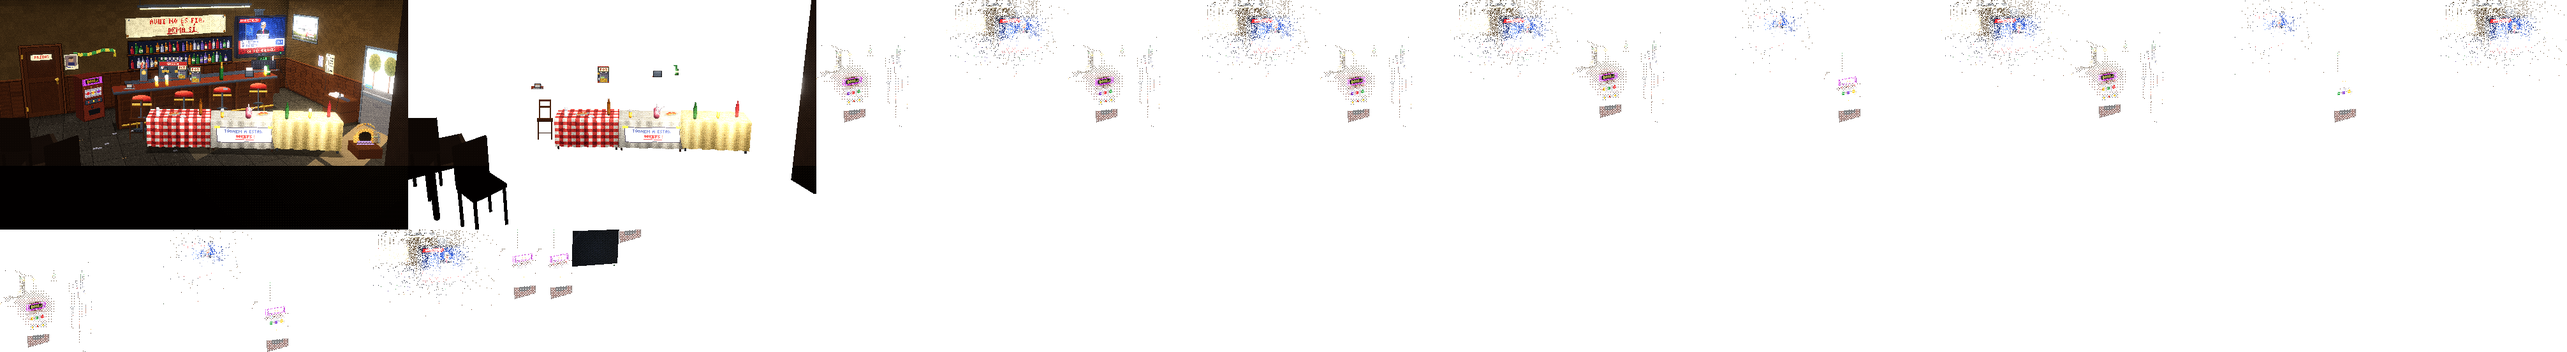
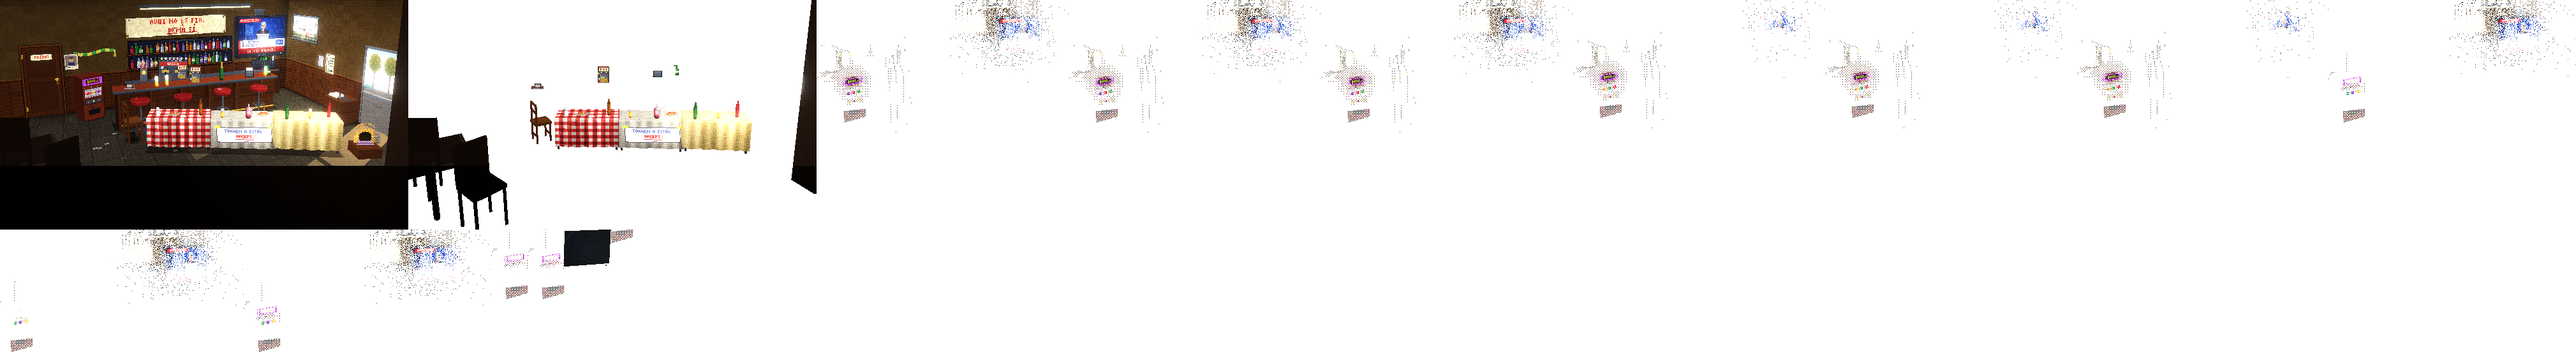
Suma Zero: els tamborets del bar i la cadira del final, volums en lloc de sprites plans

diff --git a/games/suma-zero/adapters/benne/tools/hd640/rooms/bar_sala.py b/games/suma-zero/adapters/benne/tools/hd640/rooms/bar_sala.py
@@ -223,11 +223,10 @@ SLOT_CROP = (91, 125, 132, 204)
 
 def _objectes():
     """Les coses dretes, dibuixades planes sobre transparent: el taulell del darrere (la cafetera, la cervesera, la
-    caixa), el que hi ha damunt la barra, un tamboret i el pernil."""
+    caixa), el que hi ha damunt la barra i el pernil."""
     cv = _llenc(transparent=True)
     PL.back_counter(cv)
     PL.bar(cv)                                     # (en surten el pot, el tovalloner, la tassa i l'ampolla)
-    PL.stools(cv)
     PL.ham(cv)
     return cv.img
 
@@ -239,7 +238,6 @@ POT = (298, 123, 318, 152)
 TOVALLONER = (407, 132, 425, 151)
 CAFE = (182, 143, 202, 154)
 AMPOLLA = (538, 130, 550, 151)
-TAMBORET = (162, 179, 191, 235)
 PERNIL = (555, 0, 583, 71)
 
 
@@ -412,15 +410,9 @@ def escena(cv, tex, estat=frozenset(), dia=False, llums=None, cam=None, primer_p
         hx, hz = HAM
         e.cable('pernil', [(hx, HT, hz), (hx, 200 - 12, hz)], SLATE, 1.6, gruix=0.8)
         _dret(e, 'pernil', ob, PERNIL, (hx, 200 - PERNIL[3] + PERNIL[1], hz), PERNIL[3])
-    # els tamborets, davant la barra (el dibuix pla, dret), amb la seva ombra
+    # els tamborets, davant la barra: volums (la base, la columna, el reposapeus i el seient de skai), amb l'ombra
     for k, sx_ in enumerate(STOOLS):
-        e.foscor('ombra_tamboret', (sx_ - 16, 0.7, STOOL_Z + 10), (sx_ + 16, 0.7, STOOL_Z + 10),
-                 (sx_ + 16, 0.7, STOOL_Z - 10), (sx_ - 16, 0.7, STOOL_Z - 10),
-                 lambda s, t: 0.6 * max(0.0, 1 - ((s - 16) / 16) ** 2 - ((t - 10) / 10) ** 2) * 1.6)
-        img = ob.crop(TAMBORET)
-        if k == 2:                                                       # el de la cinta americana
-            img = ob.crop((TAMBORET[0] + 240, TAMBORET[1], TAMBORET[2] + 240, TAMBORET[3]))
-        e.sprite('tamborets', img, (176 - TAMBORET[0], 231 - TAMBORET[1]), (sx_, 0, STOOL_Z), escala_img=1.15)
+        _tamboret(e, sx_, STOOL_Z, k)
     if primer_pla:
         _primer_pla(e)
     return e
@@ -447,6 +439,88 @@ def _primer_pla(e):
     e.caixa('primer_pla', px_ - 16, px_ + 16, 0, HT, pz_ - 16, pz_ + 16, FOSC, 1.6,
             cares={'davant': {'ramp': FOSC, 'lvl': lambda s, t, P: 1.4 + (0.6 if s < 3 else 0)},
                    'esquerra': {'ramp': FOSC, 'lvl': lambda s, t, P: 2.2 + (hr(int(s) // 3, int(t) // 5) - 0.5) * 0.4}})
+
+
+def _disc(e, sid, cx, cz, r, y, ramp, lvl):
+    """Un disc horitzontal (de cara amunt) de radi `r` a l'alçada `y`: `lvl(dx, dz)` des del centre."""
+    e.quad(sid, (cx - r, y, cz + r), (cx + r, y, cz + r), (cx + r, y, cz - r), (cx - r, y, cz - r), ramp=ramp,
+           lvl=lambda s, t, P: lvl(s - r, r - t), forma=lambda s, t: (s - r) ** 2 + (t - r) ** 2 <= r * r)
+
+
+def _cilindre(e, sid, cx, cz, r, y0, y1, ramp, lvl, n=20, gir=0.0):
+    """Un cilindre dret (el costat, a cares: la llum del món hi cau cara per cara). `lvl(a, t)`: a = l'angle de la
+    cara, t = l'alçada des de baix. La tapa, a part (_disc)."""
+    for i in range(n):
+        a0, a1 = gir + 2 * math.pi * i / n, gir + 2 * math.pi * (i + 1) / n
+        P0 = (cx + r * math.cos(a0), y1, cz + r * math.sin(a0))
+        P1 = (cx + r * math.cos(a1), y1, cz + r * math.sin(a1))
+        am = (a0 + a1) / 2
+        e.quad(sid, P0, P1, (P1[0], y0, P1[2]), (P0[0], y0, P0[2]), ramp=ramp,
+               lvl=lambda s, t, P, am=am: lvl(am, y1 - y0 - t))
+
+
+SKAI = [(26, 4, 8), (54, 10, 14), (92, 18, 22), (136, 28, 30), (180, 46, 42), (216, 84, 66), (244, 140, 110)]
+
+
+def _tamboret(e, x, z, k):
+    """Un tamboret de bar: la base rodona, la columna cromada, el reposapeus en anella amb tres radis, el plat de
+    sota i el seient de skai vermell amb el ribet. `k`: cadascun una mica diferent (el gir, el desgast, l'alçada) i el
+    tercer, amb el seient esquinçat i cinta americana."""
+    sid = 'tamborets'
+    gir = (0.4, 1.3, 2.1, 0.9)[k % 4]
+    dl = (0.0, -0.25, 0.15, -0.1)[k % 4]                  # el desgast: uns més mats que d'altres
+    hs = (54, 53, 55, 53.5)[k % 4]                         # el seient (dalt)
+    fx = FLUO[0]
+    # l'ombra: el seient la fa una mica cap a fora del fluorescent i cap a la càmera; i la base, a terra, de contacte
+    ox, oz = x + (x - fx) * 0.1, z - 5
+    e.foscor('ombra_tamboret', (ox - 20, 0.7, oz + 20), (ox + 20, 0.7, oz + 20), (ox + 20, 0.7, oz - 20),
+             (ox - 20, 0.7, oz - 20), lambda s, t: 0.5 * max(0.0, 1 - ((s - 20) ** 2 + (t - 20) ** 2) / 400) * 1.5)
+    e.foscor('ombra_tamboret', (x - 15, 0.8, z + 15), (x + 15, 0.8, z + 15), (x + 15, 0.8, z - 15), (x - 15, 0.8, z - 15),
+             lambda s, t: 0.7 * max(0.0, 1 - ((s - 15) ** 2 + (t - 15) ** 2) / 225) * 2)
+    # la base: un plat baix i bombat
+    _cilindre(e, sid, x, z, 12, 0, 2.2, STEELB, lambda a, t: 2.0 + dl - math.sin(a) * 0.6, gir=gir)
+    _disc(e, sid, x, z, 12, 2.2, STEELB,
+          lambda dx, dz: 3.4 + dl + (1.6 if -4 < dx < -1 and 1 < dz < 5 else 0) - math.hypot(dx, dz) * 0.07)
+    # el reposapeus (l'anella i els radis): la meitat del fons abans de la columna, la del davant després
+    yr, rr = 20 + (k % 2), 10
+    pts = [(x + rr * math.cos(gir + i * math.pi / 8), yr, z + rr * math.sin(gir + i * math.pi / 8)) for i in range(17)]
+    radis = [(x + rr * math.cos(gir + i * 2 * math.pi / 3), yr, z + rr * math.sin(gir + i * 2 * math.pi / 3))
+             for i in range(3)]
+    seg = list(zip(pts, pts[1:])) + [((x, yr, z), R) for R in radis]
+    lluny = [s_ for s_ in seg if (s_[0][2] + s_[1][2]) / 2 >= z]
+    a_prop = [s_ for s_ in seg if (s_[0][2] + s_[1][2]) / 2 < z]
+    for A, B_ in sorted(lluny, key=lambda s_: -(s_[0][2] + s_[1][2])):
+        e.tub(sid, A, B_, 1.0, STEELB, 3.2 + dl)
+    e.tub(sid, (x, 2, z), (x, hs - 8, z), 1.7, STEELB, 3.0 + dl)          # la columna
+    for A, B_ in sorted(a_prop, key=lambda s_: -(s_[0][2] + s_[1][2])):
+        e.tub(sid, A, B_, 1.0, STEELB, 3.6 + dl)
+    # el plat de sota el seient i el seient: el costat (amb el ribet a dalt i a baix) i la tapa
+    _cilindre(e, sid, x, z, 7, hs - 9, hs - 6, STEELB, lambda a, t: 2.2 + dl - math.sin(a) * 0.5, n=12, gir=gir)
+    _cilindre(e, sid, x, z, 15, hs - 6, hs, SKAI,
+              lambda a, t: 2.4 + dl - math.sin(a) * 0.5 + (0.9 if t > 5.2 else 0) - (0.9 if t < 0.8 else 0)
+              + (0.3 if int(a * 6) % 5 == 0 else 0), gir=gir)
+
+    def seient(dx, dz):
+        d = math.hypot(dx, dz)
+        v = 3.4 + dl - d * 0.04 - dz * 0.02                  # bombat: més clar al mig
+        if d > 13.4:
+            v += 0.8                                         # el ribet
+        if math.hypot(dx + 5, dz - 6) < 2.6:
+            v += 1.6                                         # el reflex del skai
+        if k == 2:                                           # l'esquinç (la cinta hi va damunt)
+            u, w = dx * math.cos(gir) + dz * math.sin(gir), -dx * math.sin(gir) + dz * math.cos(gir)
+            if 0 < u < 11 and abs(w) < 0.5:
+                return 0.6
+        return v
+    _disc(e, sid, x, z, 15, hs, SKAI, seient)
+    if k == 2:                                                # dues tires de cinta americana, en creu sobre l'esquinç
+        tape = [(60, 60, 64), (110, 110, 116), (160, 160, 166), (196, 196, 200)]
+        c, s = math.cos(gir), math.sin(gir)
+        for u0, w0 in ((3, 0.4), (8, -0.3)):
+            P = [(x + u * c - w * s, hs + 0.3, z + u * s + w * c) for u, w in
+                 ((u0 - 1.3, w0 - 3.2), (u0 + 1.3, w0 - 3.2), (u0 + 1.3, w0 + 3.2), (u0 - 1.3, w0 + 3.2))]
+            e.quad(sid, P[0], P[1], P[2], P[3], ramp=tape, lvl=lambda s_, t, P_: 3.0 + (0.8 if t < 0.8 else 0),
+                   dues_cares=True)
 
 
 def _dret(e, sid, img, box, peu, base_y):

diff --git a/games/suma-zero/adapters/benne/tools/hd640/rooms/final_bar.py b/games/suma-zero/adapters/benne/tools/hd640/rooms/final_bar.py
@@ -121,13 +121,49 @@ def _cistella():
 CIST_CROP = (555, 199, 594, 233)
 
 
-def _cadira():
-    cv = Canvas(light=B.TEXL, transparent=True)
-    PL.table_chair(cv, 128, 229)
-    return cv.img
+# la cadira de fusta de la punta de l'esquerra (x, z, gir): un volum, separada de la taula i de biaix, de cara a la
+# taula (el respatller cap a l'esquerra)
+CADIRA = (_l(-166, 12)[0], _l(-166, 12)[2], TAULA[2] + math.pi / 2 + 0.6)
 
 
-CAD_CROP = (115, 199, 142, 262)
+def _cadira(e, cx, cz, ang):
+    """Una cadira de bar, de fusta (la del dibuix pla, ara amb volum): quatre potes amb el travesser, el seient amb el
+    cantell i el respatller de dos travessers entre els muntants. De lluny a prop, peça a peça."""
+    c, s_ = math.cos(ang), math.sin(ang)
+
+    def P(lx, y, lz):
+        return (cx + lx * c - lz * s_, y, cz + lx * s_ + lz * c)
+    sid, hs = 'cadira', 32
+    e.foscor('ombra_cadira', P(-17, 0.6, 19), P(15, 0.6, 19), P(15, 0.6, -17), P(-17, 0.6, -17),
+             lambda s, t: 0.55 * max(0.0, 1 - ((s - 16) ** 2 + (t - 18) ** 2) / 300) * 1.5)
+    ull = CAM.pos
+
+    def lluny(q):
+        return -math.hypot(q[0] - ull[0], q[2] - ull[2])
+    # les potes (fins a sota el seient) i els travessers dels costats, de lluny a prop
+    potes = [P(lx, 0, lz) for lx in (-10.5, 10.5) for lz in (-10.5, 10.5)]
+    trav = [P(0, 0, lz) for lz in (-10.5, 10.5)]
+    for q in sorted(potes + trav, key=lluny):
+        if q in potes:
+            e.caixa(sid, q[0] - 1.3, q[0] + 1.3, 0, hs - 4, q[2] - 1.3, q[2] + 1.3, WOOD, 3.6)
+        else:
+            e.caixa_girada(sid, q[0], q[2], 20, 1.6, 1.8, ang, WOOD, 3.2, y0=10)
+
+    def seient():
+        e.caixa_girada(sid, cx, cz, 25, 25, 4, ang, WOOD, 3.6, y0=hs - 4,
+                       cares={'dalt': {'ramp': WOOD, 'lvl': lambda s, t, P_: 5.0 + (hr(int(s) // 6, 1, 7) - 0.5) * 0.4
+                                       + (0.6 if s < 1.2 or t < 1.2 or s > 23.8 or t > 23.8 else 0)},
+                              'davant': {'ramp': WOOD, 'lvl': lambda s, t, P_: 3.8 + (0.8 if t < 1 else 0)}})
+
+    def respatller():
+        qs = sorted((P(lx, 0, 10.5) for lx in (-10.5, 10.5)), key=lluny)
+        e.caixa(sid, qs[0][0] - 1.3, qs[0][0] + 1.3, hs, 61, qs[0][2] - 1.3, qs[0][2] + 1.3, WOOD, 3.6)
+        qb = P(0, 0, 10.5)
+        e.caixa_girada(sid, qb[0], qb[2], 19, 2.2, 2.4, ang, WOOD, 4.0, y0=47)
+        e.caixa_girada(sid, qb[0], qb[2], 19, 2.2, 3, ang, WOOD, 4.6, y0=58)
+        e.caixa(sid, qs[1][0] - 1.3, qs[1][0] + 1.3, hs, 61, qs[1][2] - 1.3, qs[1][2] + 1.3, WOOD, 3.6)
+    for q, pinta in sorted(((P(0, 0, 0), seient), (P(0, 0, 10.5), respatller)), key=lambda p: lluny(p[0])):
+        pinta()
 
 
 def _tela(kind, w, h, faldo=False, dy=0):
@@ -165,8 +201,7 @@ def _tela(kind, w, h, faldo=False, dy=0):
 def _textures(apagada=False):
     t = dict(B._textures())
     t.update({'fons': B._paret_fons(extra=_suport), 'facana': B._facana(dia=True), 'tele': _tele(apagada=apagada),
-              'tv_box': TV, 'tv_crop': TV_CROP, 'pernil': False, 'paper': _paper(), 'cistella': _cistella(),
-              'cadira': _cadira()})
+              'tv_box': TV, 'tv_crop': TV_CROP, 'pernil': False, 'paper': _paper(), 'cistella': _cistella()})
     for _, _, kind, _, dy in TAULES:
         t['dalt_' + kind] = _tela(kind, 92, T_D)
         t['faldo_' + kind] = _tela(kind, 92, T_H - 4, faldo=True, dy=dy)
@@ -291,8 +326,7 @@ def escena(cv, tex, estat=frozenset()):
                            (XR - 2, 1, ZW - 20), (XR - 2, 1, mz1 + 6), (mx1 - 2, mh + 1, mz1 - 2), (rx, mh + 2, rz + 8)],
             SLATE, 1.4, gruix=1.2)
     # la cadira de la punta de l'esquerra i la taula llarga
-    pc = _l(-162, 14)
-    e.sprite('cadira', tex['cadira'].crop(CAD_CROP), (128 - CAD_CROP[0], 261 - CAD_CROP[1]), pc)
+    _cadira(e, *CADIRA)
     _taula(e, tex)
     # la cistella d'en Diu, damunt un tamboret baix de fusta, a la punta de la dreta
     cx, cz, ch = CISTELLA
